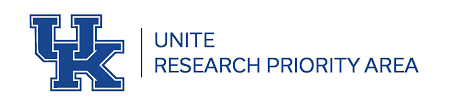
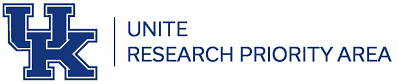
added partern imgs

Changed region(s): [[0.0, 0.0238, 0.995, 0.9762]]

diff --git a/about.html b/about.html
@@ -64,10 +64,10 @@
            
 
             <button class="about-accordion">Collaborating Partners</button>
-            <div class="about-panel">
-                <a href="https://www.research.uky.edu/unite-research-priority-area" target="_blank" rel="noopener noreferrer"><img src="media/UNITErpa.png" alt="UKY UNITE"></a>
-                <p><a href="https://www.as.uky.edu/" target="_blank" rel="noopener noreferrer">University of Kentucky College of Arts and Sciences</a></p>
-                <p><a href="https://libraries.uky.edu/" target="_blank" rel="noopener noreferrer">University of Kentucky Libraries</a></p>
+            <div class="about-panel" id="partners">
+                <a href="https://www.research.uky.edu/unite-research-priority-area" target="_blank" rel="noopener noreferrer"><img class="partner-img" src="media/UNITErpa.png" alt="UKY UNITE"></a>
+                <a href="https://www.as.uky.edu/" target="_blank" rel="noopener noreferrer"><img class="partner-img" src="media/uky-college-as.jpg" alt="University of Kentucky College of Arts and Sciences"></a>
+                <a href="https://libraries.uky.edu/" target="_blank" rel="noopener noreferrer"><img class="partner-img" src="media/uky-libraries.jpg" alt="University of Kentucky Libraries"></a>
             </div>
 
             <button class="about-accordion">Contributors</button>

diff --git a/khhp-styles.css b/khhp-styles.css
@@ -427,35 +427,44 @@ input:focus {
     text-align: center;
   }
 
-  /* Add a background color to the button if it is clicked on (add the .active class with JS), and when you move the mouse over it (hover) */
-  .active, .about-accordion:hover {
-    background-color: var(--burgundy);
-    color: white;
-  }
+.active, .about-accordion:hover {
+background-color: var(--burgundy);
+color: white;
+}
   
-  /* Style the accordion panel. Note: hidden by default */
-  .about-panel {
-    padding: 0 18px;
-    background-color: white;
-    max-height: 0;
-    overflow: hidden;
-    transition: max-height 0.2s ease-out;
-    text-align: center;
-  }
+.about-panel {
+padding: 0 18px;
+background-color: white;
+max-height: 0;
+overflow: hidden;
+transition: max-height 0.2s ease-out;
+text-align: center;
+}
 
- #contributors {
+#partners {
+    display: flex;
+    flex-direction: column;
+    align-items: flex-start;
+}
+
+.partner-img {
+    height: 75px;
+    padding-bottom: 2rem;
+}
+
+#contributors {
     display: flex;
     flex-wrap: wrap;
     gap: 30px;
     justify-content: space-evenly;
- }
+}
 
- .contributor {
+.contributor {
     border: 1px solid #eee;
     border-radius: 5px;
     padding: 1rem;
     width: 350px;
- }
+}
 
  /* SOURCES */
  
